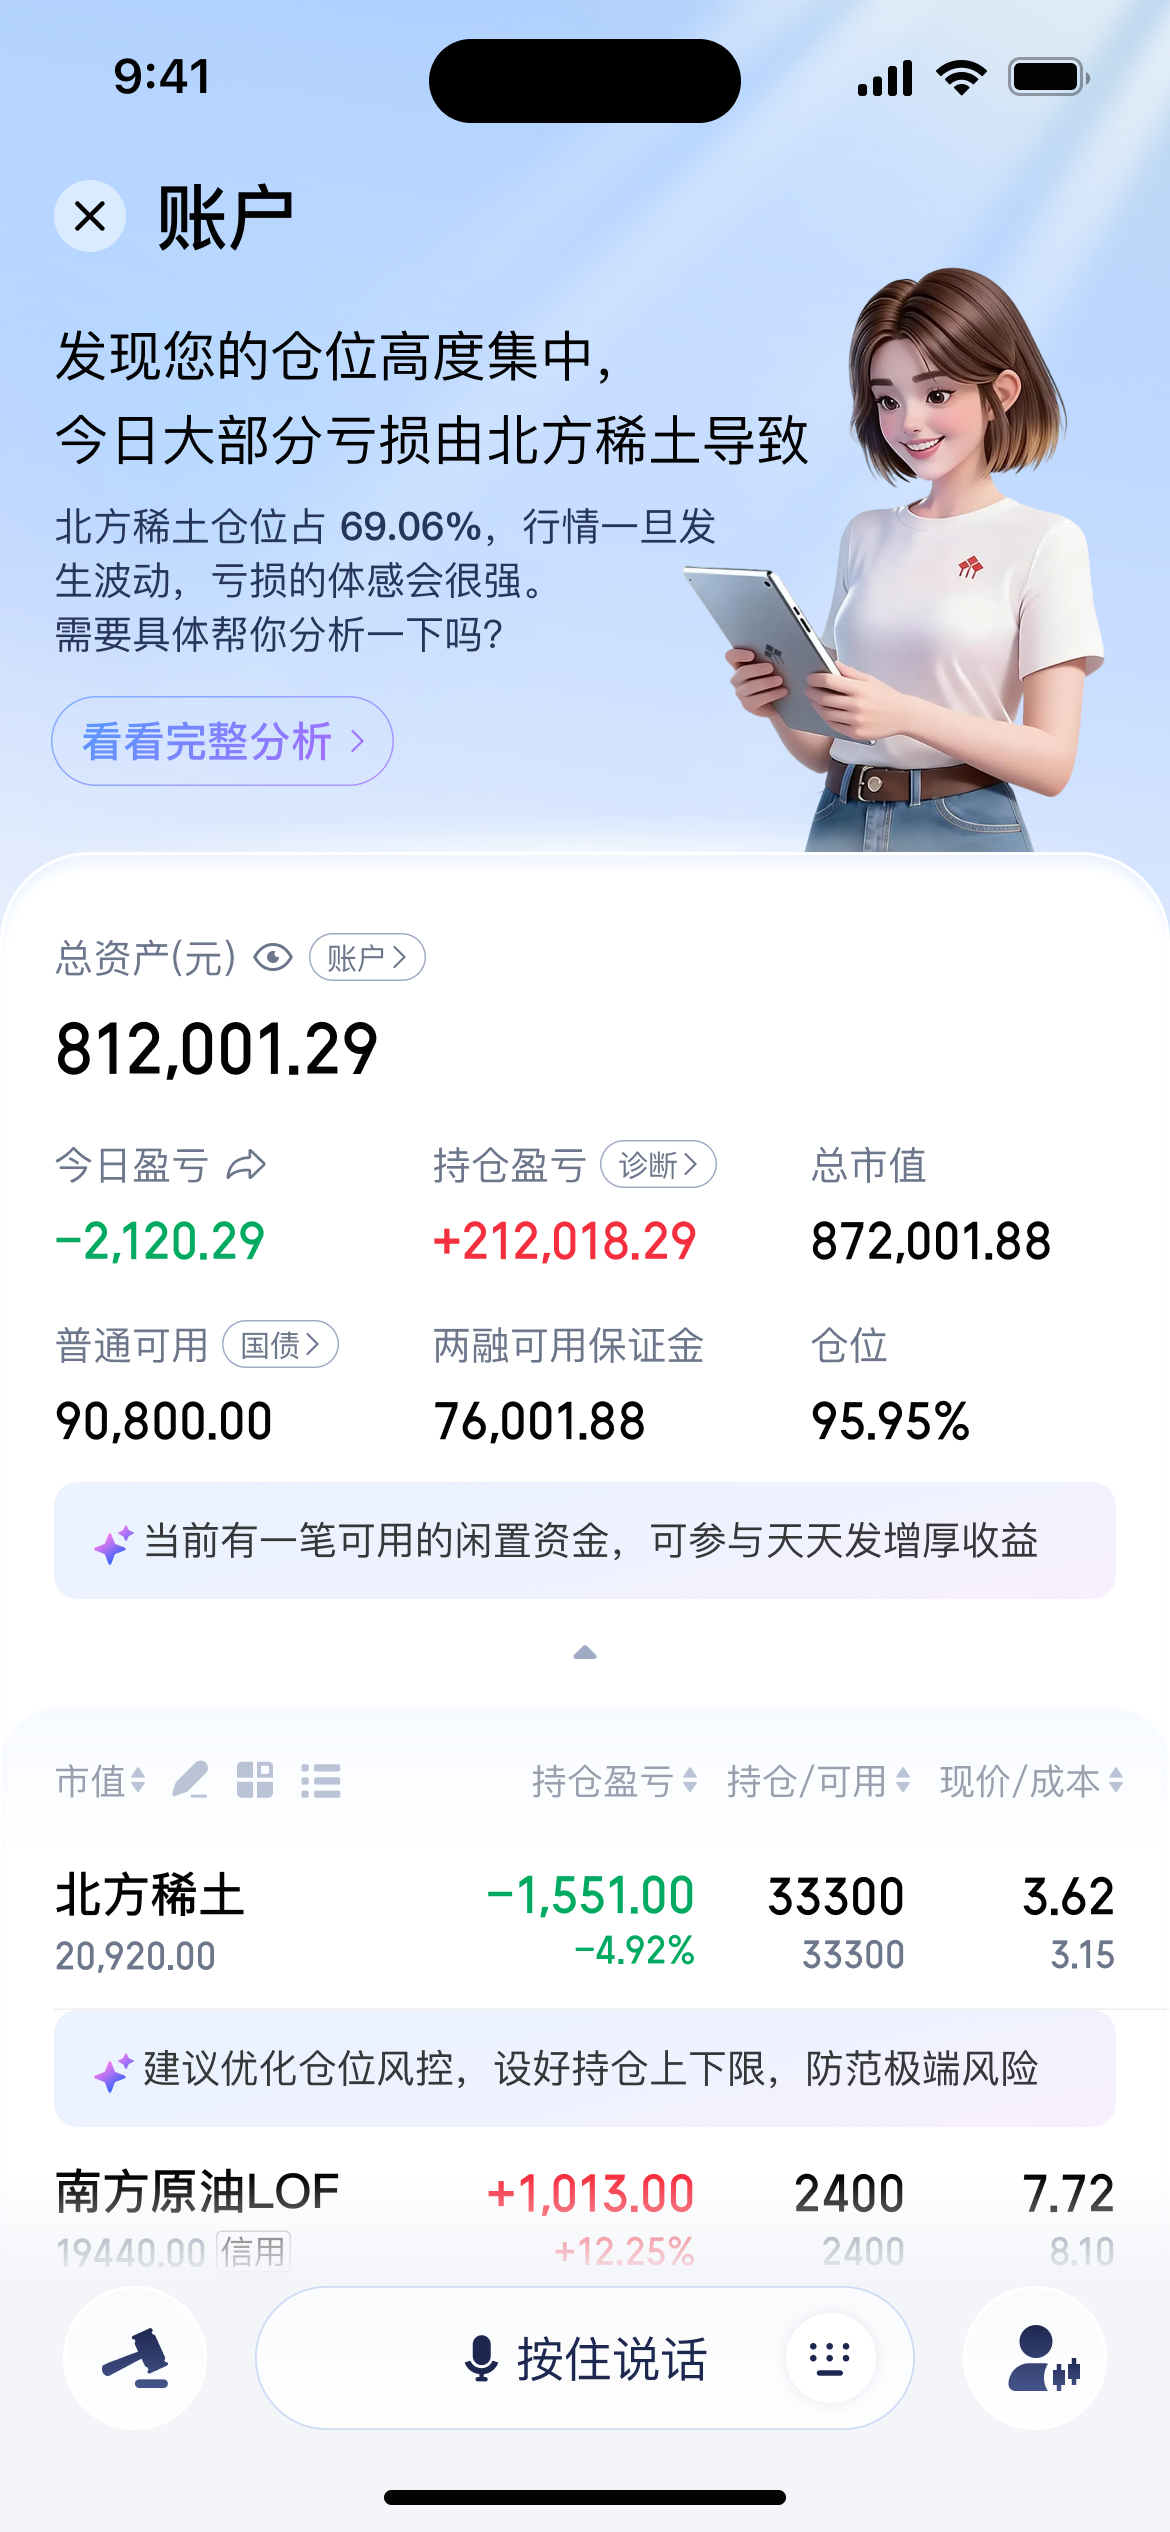
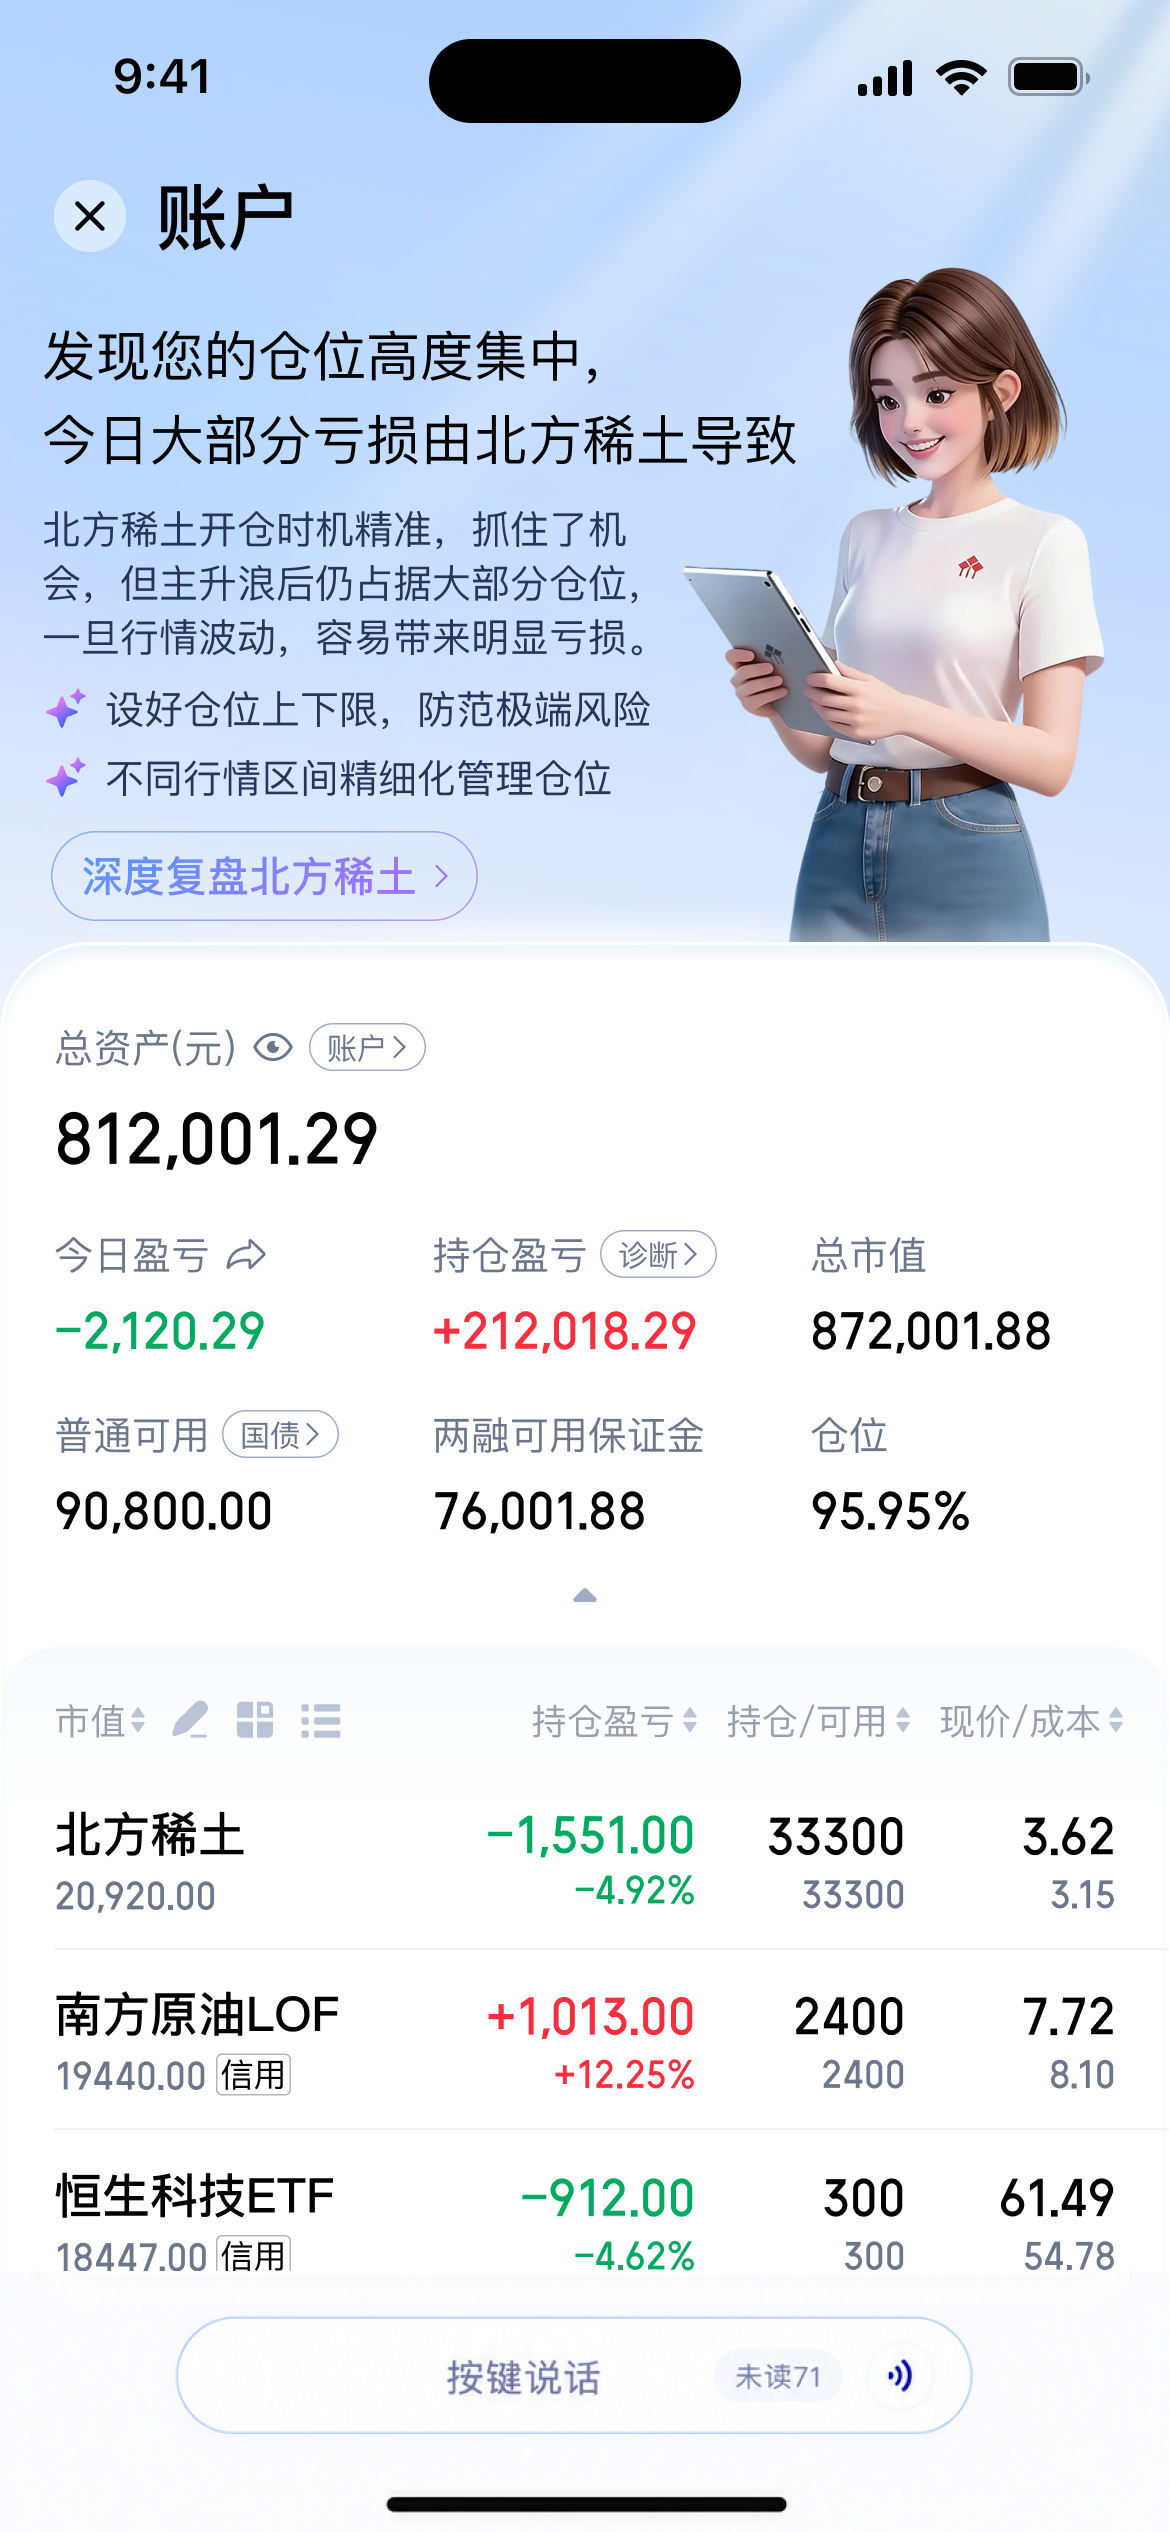
chore: 更新页面素材并调整点击热区配置
- 更新account、account-mng、account-mng-2.png页面素材
- 删除不再使用的account-mng-3.png文件
- 调整account与accountMng页面的热区坐标及尺寸
- 注释account-mng-2页面的闲置热区项

diff --git a/script.js b/script.js
@@ -87,17 +87,17 @@ const screens = {
     src: "./assets/screens/account.png",
     scrollHotspots: [
       { label: "关闭我的账户", x: 3, y: 4.6, w: 34, h: 12, target: "market" },
-      { label: "查看账户管家分析", x: 4, y: 27.5, w: 31, h: 4, target: "accountMng" }
+      { label: "查看账户管家分析", x: 4, y: 32.5, w: 37.5, h: 4.2, target: "accountMng" }
     ],
     fixedHotspots: [],
-    guide: { id: "account-analysis-guide", layer: "scroll", x: 4, y: 27.5, w: 31, h: 4 }
+    guide: { id: "account-analysis-guide", layer: "scroll", x: 4, y: 32.5, w: 37.5, h: 4.2 }
   },
   accountMng: {
     src: "./assets/screens/account-mng.png",
     scrollHotspots: [
       { label: "点击上方关闭账户管家", x: 0, y: 0, w: 100, h: 12.5, target: "account" },
       { label: "关闭账户管家", x: 89, y: 12.5, w: 11, h: 10, target: "account" },
-      { label: "帮我分析下当前实时持仓", x: 3, y: 90.5, w: 56, h: 4, target: "accountMng2" }
+      { label: "帮我分析下当前实时持仓", x: 3, y: 83.5, w: 56, h: 4, target: "accountMng2" }
     ],
     fixedHotspots: [],
     guide: null
@@ -106,7 +106,7 @@ const screens = {
     src: "./assets/screens/account-mng-2.png",
     scrollHotspots: [
       { label: "关闭", x: 89, y: 0, w: 11, h: 6, target: "account" },
-      { label: "深度复盘重仓股北方稀土", x: 3, y: 92.2, w: 56, h: 2, target: "accountMng3" }
+      // { label: "深度复盘重仓股北方稀土", x: 3, y: 92.2, w: 56, h: 2, target: "accountMng3" }
     ],
     fixedHotspots: [],
     guide: null
